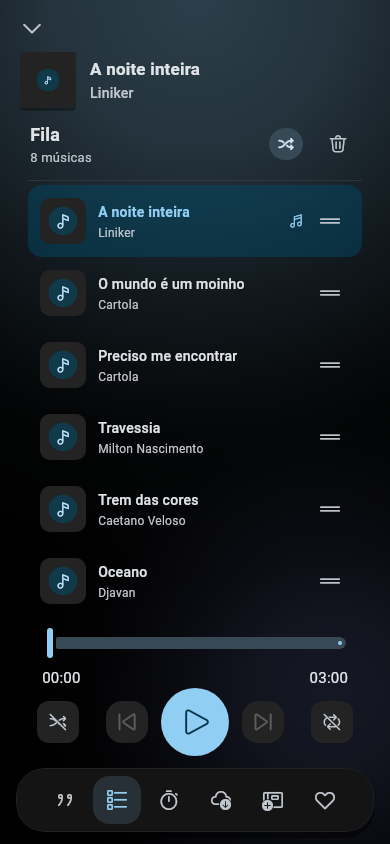
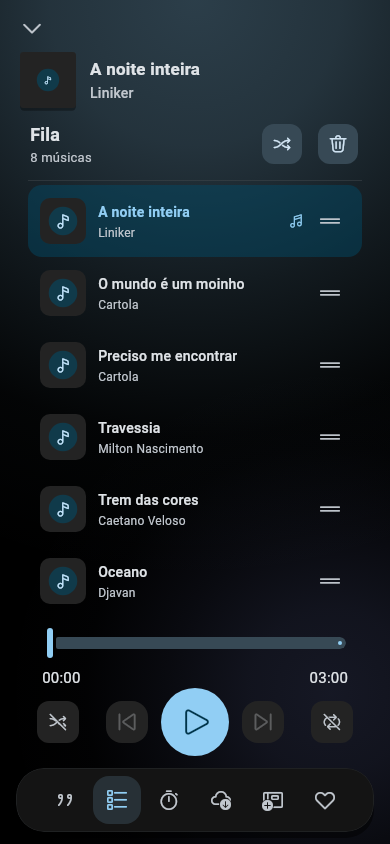
Align mobile queue header actions

Changed region(s): [[0.6462, 0.1232, 0.7692, 0.2156], [0.8, 0.1232, 0.9231, 0.2156]]

diff --git a/lib/widgets/queue_list_view.dart b/lib/widgets/queue_list_view.dart
@@ -159,6 +159,12 @@ class _QueueWidgetState extends State<QueueWidget> {
     TextTheme textTheme, {
     required bool compact,
   }) {
+    final compactActionStyle = IconButton.styleFrom(
+      fixedSize: const Size.square(40),
+      visualDensity: VisualDensity.standard,
+      tapTargetSize: MaterialTapTargetSize.padded,
+      shape: RoundedRectangleBorder(borderRadius: BorderRadius.circular(12)),
+    );
     return Padding(
       padding: compact
           ? const EdgeInsets.only(left: 10, right: 8, bottom: 12)
@@ -219,17 +225,26 @@ class _QueueWidgetState extends State<QueueWidget> {
           if (_queue.length > 1)
             IconButton.filledTonal(
               onPressed: _shuffleQueue,
-              icon: const Icon(FluentIcons.arrow_shuffle_24_filled, size: 18),
+              icon: Icon(
+                compact
+                    ? FluentIcons.arrow_shuffle_24_regular
+                    : FluentIcons.arrow_shuffle_24_filled,
+                size: compact ? 20 : 18,
+              ),
               tooltip: context.l10n!.shuffle,
-              visualDensity: VisualDensity.compact,
+              style: compact ? compactActionStyle : null,
+              visualDensity: compact
+                  ? VisualDensity.standard
+                  : VisualDensity.compact,
             ),
           if (_queue.isNotEmpty) ...[
             const SizedBox(width: 8),
             if (compact)
-              IconButton(
+              IconButton.filledTonal(
                 onPressed: () => _confirmClearQueue(context),
                 icon: const Icon(FluentIcons.delete_24_regular, size: 20),
                 tooltip: context.l10n!.clear,
+                style: compactActionStyle,
               )
             else
               FilledButton.tonalIcon(
